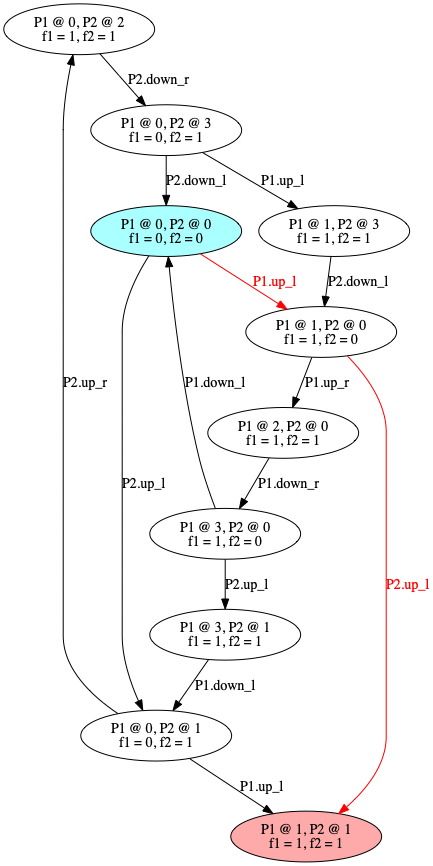
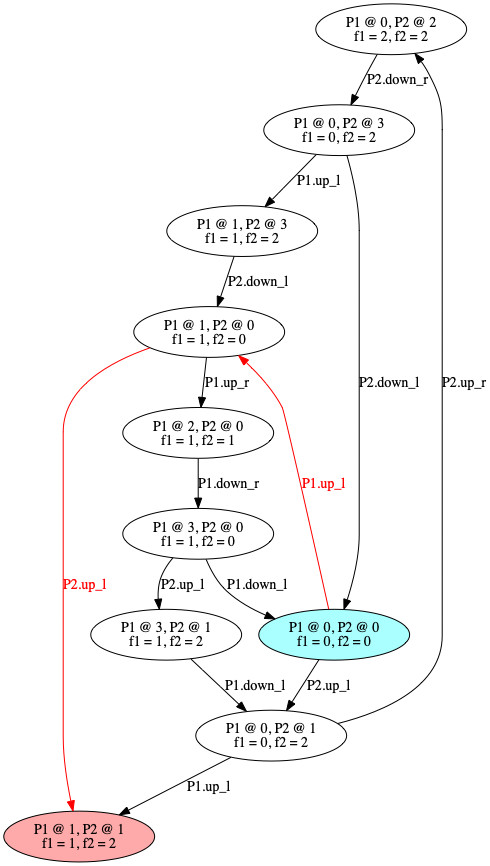
Fix the example

diff --git a/examples/philosophers/main.go b/examples/philosophers/main.go
@@ -32,7 +32,7 @@ func main() {
 	system := deadlock.NewSystem().
 		Declare(vars.Shared{"f1": 0, "f2": 0}).
 		Register("P1", philo(1, "f1", "f2")).
-		Register("P2", philo(1, "f2", "f1"))
+		Register("P2", philo(2, "f2", "f1"))
 
 	report, err := deadlock.NewDetector().Detect(system)
 	if err != nil {
